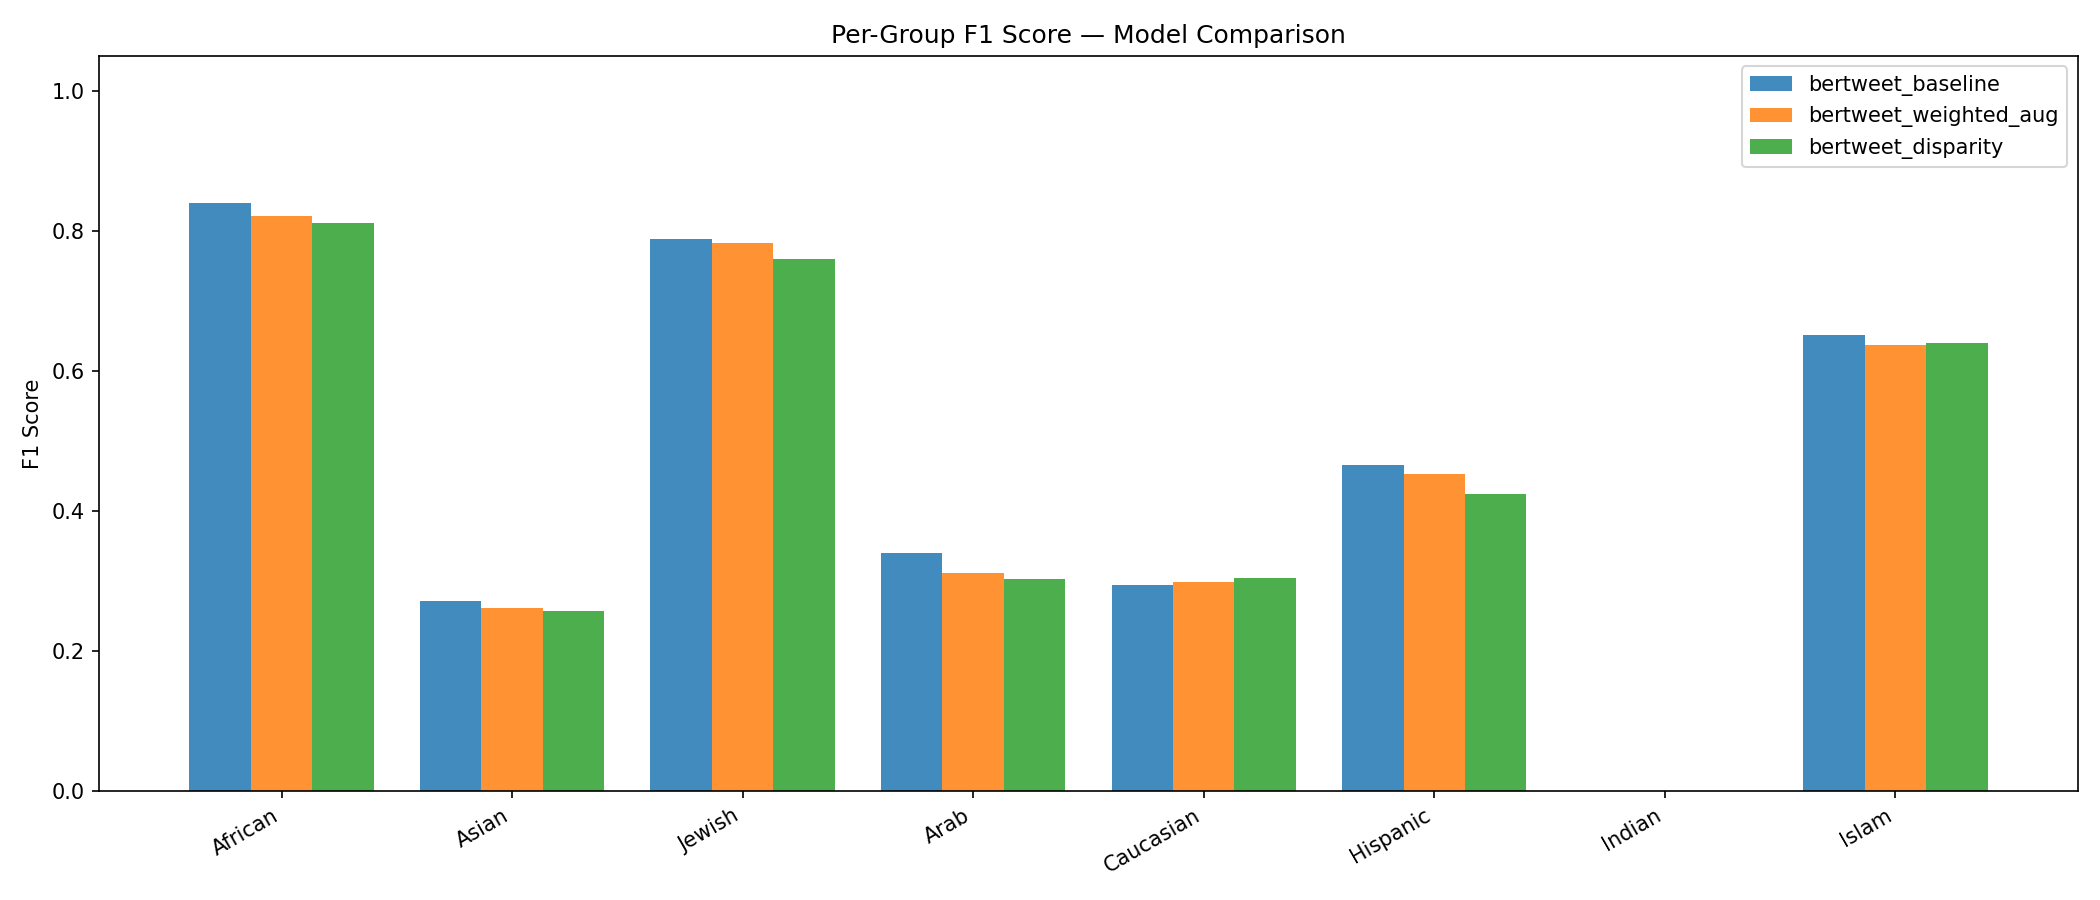
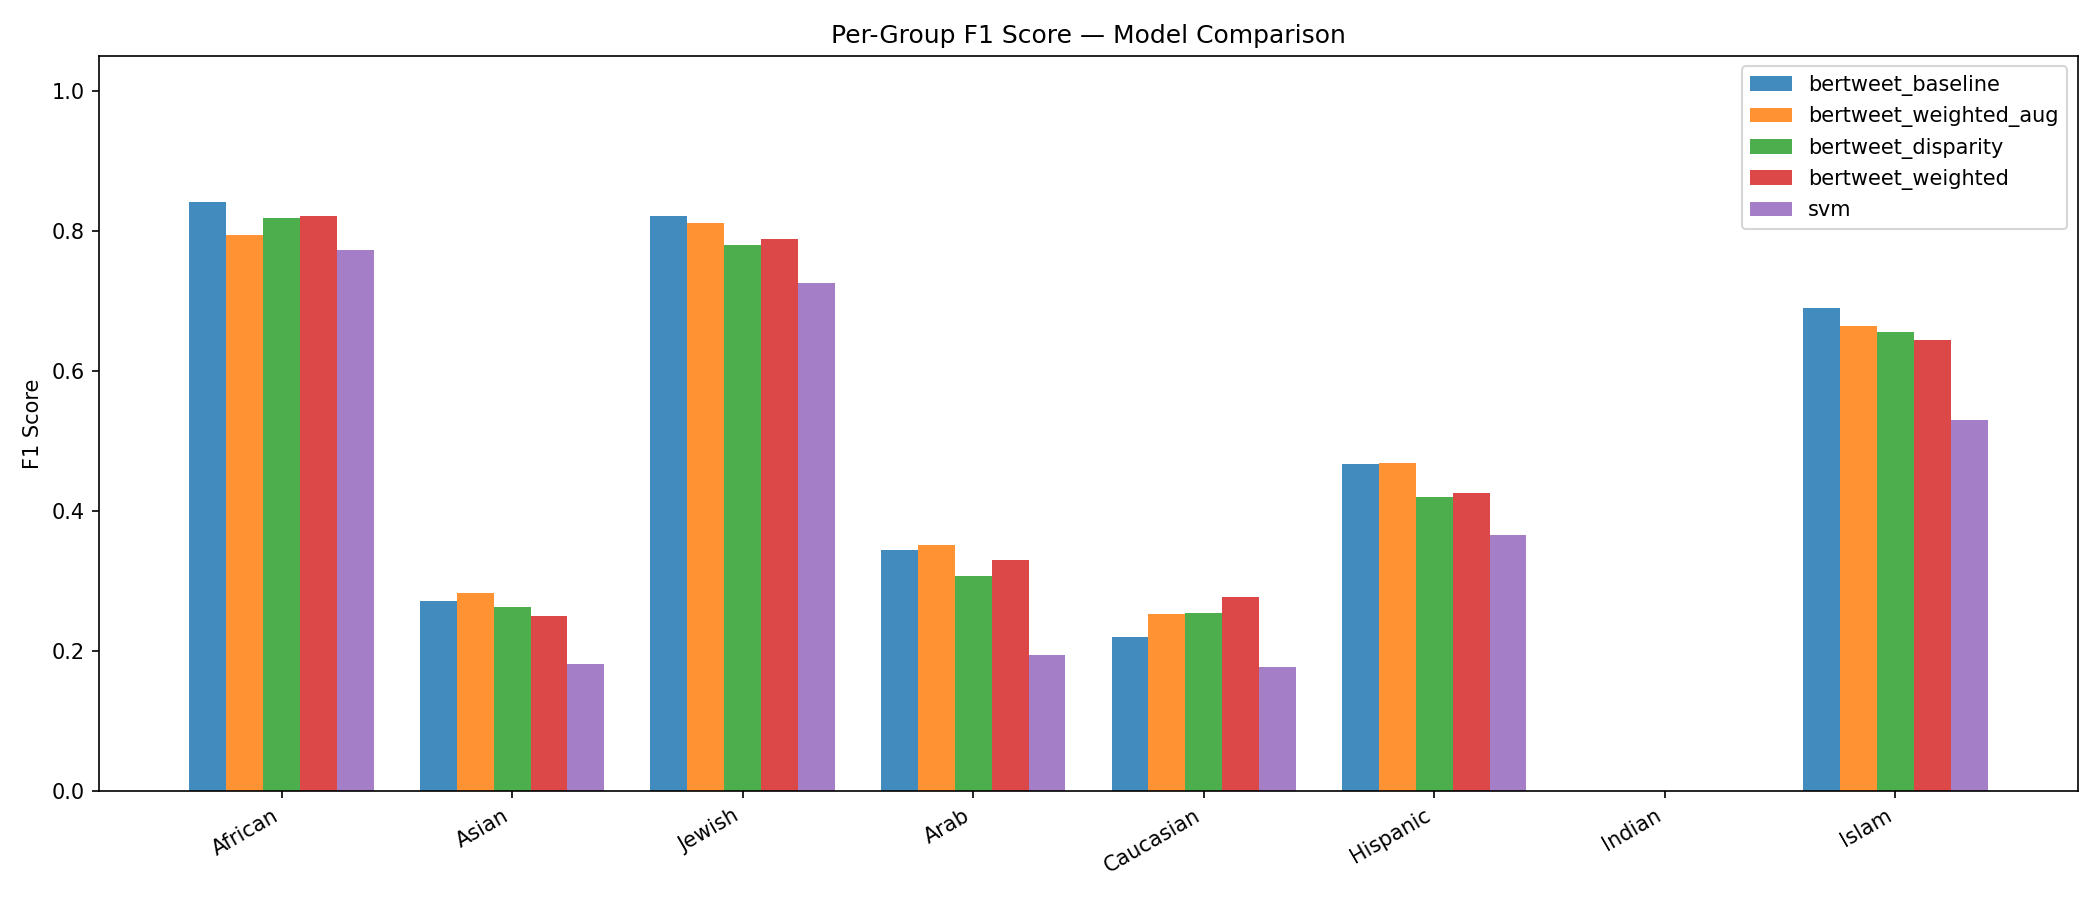
working separation

diff --git a/main.py b/main.py
@@ -25,6 +25,7 @@ from plots import (
     save_radar_chart, save_fairness_gap, save_fpr_fnr_per_group,
     save_delta_f1, save_group_cooccurrence, save_bias_amplification,
     save_weight_distribution,
+    save_macro_f1_per_epoch,
 )
 
 warnings.filterwarnings("ignore")
@@ -63,6 +64,7 @@ def run_train(args, paths, device):
 
     tokenizer = AutoTokenizer.from_pretrained(MODEL_NAME, use_fast=False)
     selected_methods = tuple(m.strip() for m in args.aug_methods.split(",") if m.strip())
+    histories = {}
 
     # --- [1/5] SVM Baseline (TF-IDF) ---
     print("\n[1/5] Training SVM Baseline...")
@@ -72,36 +74,42 @@ def run_train(args, paths, device):
     ])
     svm_pipeline.fit(df_train['text'], df_train['label'])
     joblib.dump(svm_pipeline, os.path.join(paths["ckpt"], "svm.joblib"))
-    
+
     # --- [2/5] BERTweet Baseline ---
     print("\n[2/5] Training BERTweet Baseline...")
     train_loader, val_loader, _ = make_loaders(df_train, df_val, df_test, tokenizer, args.max_len, args.batch_size)
-    model_base, _ = train_bertweet(train_loader, val_loader, device, args.epochs, args.lr, patience=args.patience)
+    model_base, history = train_bertweet(train_loader, val_loader, device, args.epochs, args.lr, patience=args.patience)
     save_checkpoint(model_base, os.path.join(paths["ckpt"], "bertweet_baseline.pt"))
+    histories["bertweet_baseline"] = history
 
-    # --- [3/5] BERTweet Weighted (No Augmentation) ---
+    # --- [3/5] BERTweet Weighted ---
     print("\n[3/5] Training BERTweet Weighted (No Aug)...")
     sample_weights = compute_sample_weights(df_train)
     train_loader_w, _, _ = make_loaders(df_train, df_val, df_test, tokenizer, args.max_len, args.batch_size, sample_weights)
-    model_w, _ = train_bertweet(train_loader_w, val_loader, device, args.epochs, args.lr, use_sample_weights=True, patience=args.patience)
+    model_w, history = train_bertweet(train_loader_w, val_loader, device, args.epochs, args.lr, use_sample_weights=True, patience=args.patience)
     save_checkpoint(model_w, os.path.join(paths["ckpt"], "bertweet_weighted.pt"))
+    histories["bertweet_weighted"] = history
 
     # --- [4/5] BERTweet Weighted + Aug ---
     print("\n[4/5] Training BERTweet Weighted + Aug...")
     df_train_aug = augment_training_data(df_train, aug_factor=args.aug_factor, seed=SEED, methods=selected_methods)
     sample_weights_aug = compute_sample_weights(df_train_aug)
     train_loader_aug, _, _ = make_loaders(df_train_aug, df_val, df_test, tokenizer, args.max_len, args.batch_size, sample_weights_aug)
-    model_aug, _ = train_bertweet(train_loader_aug, val_loader, device, args.epochs, args.lr, use_sample_weights=True, patience=args.patience)
+    model_aug, history = train_bertweet(train_loader_aug, val_loader, device, args.epochs, args.lr, use_sample_weights=True, patience=args.patience)
     save_checkpoint(model_aug, os.path.join(paths["ckpt"], "bertweet_weighted_aug.pt"))
+    histories["bertweet_weighted_aug"] = history
 
     # --- [5/5] BERTweet + Disparity ---
     print("\n[5/5] Training BERTweet + Disparity...")
     df_train_disp = augment_training_data_disparity(df_train, aug_factor=args.aug_factor, seed=SEED, methods=selected_methods)
     sample_weights_disp = compute_disparity_weights(df_train_disp)
     train_loader_disp, _, _ = make_loaders(df_train_disp, df_val, df_test, tokenizer, args.max_len, args.batch_size, sample_weights_disp)
-    model_disp, _ = train_bertweet(train_loader_disp, val_loader, device, args.epochs, args.lr, use_sample_weights=True, patience=args.patience)
+    model_disp, history = train_bertweet(train_loader_disp, val_loader, device, args.epochs, args.lr, use_sample_weights=True, patience=args.patience)
     save_checkpoint(model_disp, os.path.join(paths["ckpt"], "bertweet_disparity.pt"))
+    histories["bertweet_disparity"] = history
 
+    with open(os.path.join(paths["json"], "histories.json"), "w") as f:
+        json.dump(histories, f, indent=2)
 
 def run_eval(args, paths, device):
     print("\n=== [STEP] EVALUATION ===")
@@ -111,17 +119,22 @@ def run_eval(args, paths, device):
 
     all_group_results = {}
     all_predictions = {}
+
     for ckpt in os.listdir(paths["ckpt"]):
-        if ckpt.endswith(".joblib"):  # ← SVM
+        if ckpt.endswith(".joblib"):
             name = ckpt.replace(".joblib", "")
             model = joblib.load(os.path.join(paths["ckpt"], ckpt))
-        elif ckpt.endswith(".pt"):    # ← BERTweet
+            # Le SVM prédit directement sur le texte brut
+            y_pred = model.predict(df_test["text"].values)
+
+        elif ckpt.endswith(".pt"):
             name = ckpt.replace(".pt", "")
             model = load_checkpoint(os.path.join(paths["ckpt"], ckpt), device)
+            y_pred = predict(model, test_loader, device)
+
         else:
             continue
-        
-        y_pred = predict(model, test_loader, device)
+
         all_group_results[name] = evaluate_per_group(df_test, y_pred)
         all_predictions[name] = np.array(y_pred).tolist()
 
@@ -130,13 +143,14 @@ def run_eval(args, paths, device):
     with open(os.path.join(paths["json"], "predictions.json"), "w") as f:
         json.dump(all_predictions, f)
 
-
 def run_plot(args, paths):
     with open(os.path.join(paths["json"], "results.json"), "r") as f:
         all_group_results = json.load(f)
     with open(os.path.join(paths["json"], "predictions.json"), "r") as f:
         predictions_dict = {k: np.array(v) for k, v in json.load(f).items()}
-
+    with open(os.path.join(paths["json"], "histories.json"), "r") as f:  # ← nouveau
+        histories = json.load(f)
+    
     df_test = load_data(os.path.join(paths["csv"], "test.csv"))
     df_train = load_data(os.path.join(paths["csv"], "train.csv"))
 
@@ -156,7 +170,7 @@ def run_plot(args, paths):
     weights_disp = compute_disparity_weights(df_train)
     save_weight_distribution(df_train, weights_count, "Count-based", paths["plots"])
     save_weight_distribution(df_train, weights_disp, "Disparity-aware", paths["plots"])
-
+    save_macro_f1_per_epoch(histories, paths["plots"])
 
 if __name__ == "__main__":
     parser = argparse.ArgumentParser()
@@ -164,7 +178,7 @@ if __name__ == "__main__":
     parser.add_argument("--data_path", type=str)
     parser.add_argument("--output_dir", type=str, required=True)
     parser.add_argument("--epochs", type=int, default=5)
-    parser.add_argument("--patience", type=int, default=2)
+    parser.add_argument("--patience", type=int, default=5)
     parser.add_argument("--batch_size", type=int, default=16)
     parser.add_argument("--lr", type=float, default=2e-5)
     parser.add_argument("--max_len", type=int, default=128)

diff --git a/src/plots.py b/src/plots.py
@@ -11,10 +11,10 @@ from config import GROUPS
 
 COLORS = {
     "SVM": "steelblue",
-    "BERTweet_baseline": "tomato",
-    "BERTweet_weighted": "seagreen",
-    "BERTweet_weighted_aug": "darkorchid",
-    "BERTweet_disparity": "darkorange",
+    "bertweet_baseline": "tomato",
+    "bertweet_weighted": "seagreen",
+    "bertweet_weighted_aug": "darkorchid",
+    "bertweet_disparity": "darkorange",
 }
 
 
@@ -366,4 +366,35 @@ def save_group_comparison(all_results, output_dir):
     ax.set_ylim(0, 1.05)
     plt.tight_layout()
     plt.savefig(os.path.join(output_dir, "group_f1_comparison.png"), dpi=150)
+    plt.close()
+
+def save_macro_f1_per_epoch(histories, output_dir):
+    """
+    Toutes les courbes val Macro F1 par epoch sur le même graphe.
+    Permet de comparer la vitesse de convergence et le niveau final.
+    """
+    os.makedirs(output_dir, exist_ok=True)
+    fig, ax = plt.subplots(figsize=(10, 5))
+
+    for name, history in histories.items():
+        val_f1 = history["val_f1"]
+        epochs = range(1, len(val_f1) + 1)
+        color = COLORS.get(name, "gray")
+        ax.plot(epochs, val_f1, color=color, marker="o", linewidth=2, label=name)
+        # Marque le meilleur epoch
+        best_epoch = int(np.argmax(val_f1)) + 1
+        best_val = max(val_f1)
+        ax.annotate(f"{best_val:.3f}",
+                    xy=(best_epoch, best_val),
+                    xytext=(4, 4), textcoords="offset points",
+                    fontsize=7, color=color)
+
+    ax.set_xlabel("Epoch")
+    ax.set_ylabel("Val Macro F1")
+    ax.set_title("Validation Macro F1 per Epoch — All Models")
+    ax.legend(fontsize=9)
+    ax.set_ylim(0, 1.05)
+    ax.grid(axis="y", linestyle="--", alpha=0.4)
+    plt.tight_layout()
+    plt.savefig(os.path.join(output_dir, "macro_f1_per_epoch.png"), dpi=150)
     plt.close()
